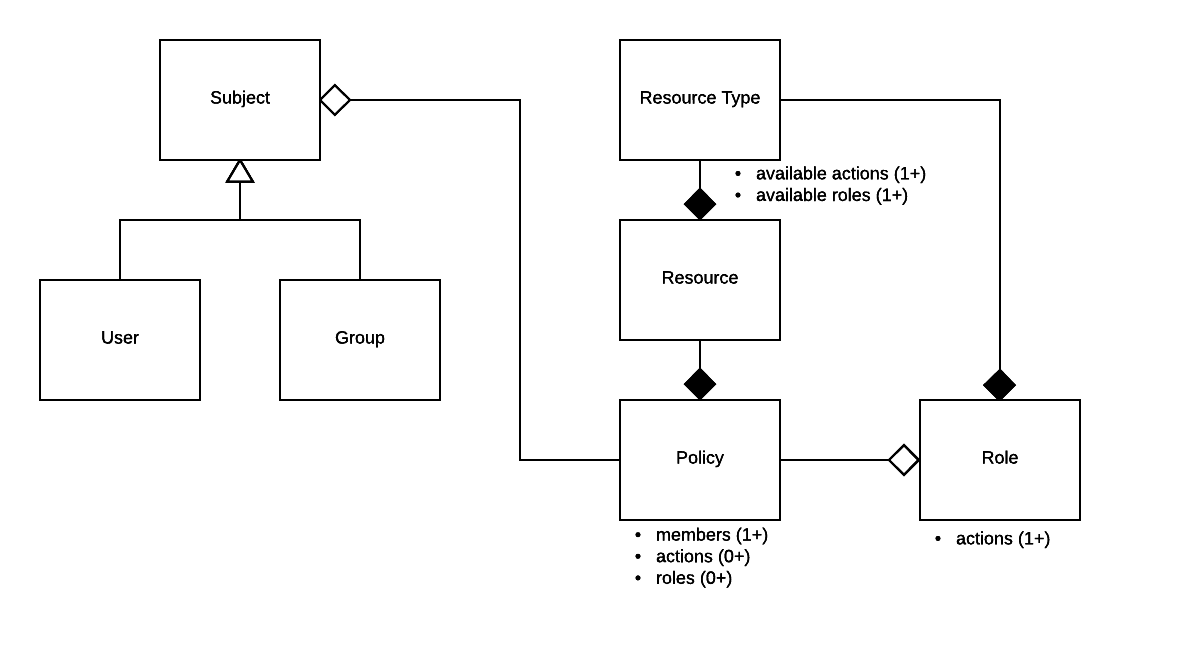
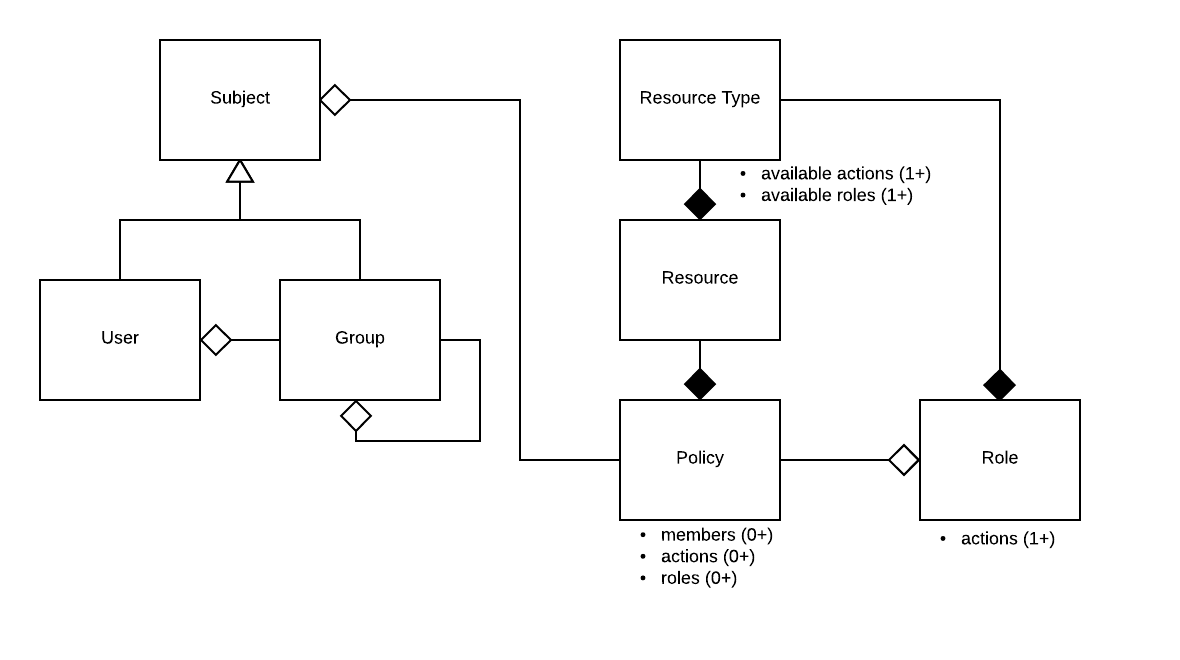
updated README

diff --git a/README.md b/README.md
@@ -4,19 +4,69 @@
 ## In a nutshell
 The crux of IAM in Sam is a policy. A policy says **who** can **do what** to a **thing**. More technically the who is called a **subject** and can be a user or a group of users, the do what is called an **action** such as read or update, and the thing is called a **resource** such as a workspace or project. Resources have types which specify what actions are available for its resources, roles (which are collections of actions) and which role is the "owner" role. The "owner" role should have the appropriate actions to administer a resource. When a resource is created a policy with the owner role is automatically created and the creator is added.
 
-Here is a pretty picture showing what is described above
+
+##Terms
+* Subject - an authenticated user
+* Resource - something to which access is controlled
+* Action - may be performed on a resource - meant to be as granular as possible
+* Policy - represents the actions a subject may perform on a resource
+* Role - a collection of actions - meant to aggregate actions into a more meaningful, higher level concept
+* Group - a group of subjects or other groups
+* Resource type - defines a class of resources. Each resource has a type which defines
+  * Available actions
+  * Available roles and actions for each role
+  * Of the available roles which is the “owner” role - this is used when creating a resource to give the creator ownership access
+
+##Requirements
+
+###Guiding Principles
+There are no special/super users in this system. All api calls authenticate as subjects with access rights determined by policies in the same way. In other words, this system should use its own policy mechanisms internally for any authorization needs. (Note that this does leave the problem of bootstrapping, i.e. how is the first user created, which can be achieved by scripts outside the system with direct data store level access)
+This system can be publically facing. This does not mean that it will be in all cases but it should be designed with this in mind
+Authentication is handled at a higher level than this application, e.g. via OAuth and an OIDC proxy
+
+###Evaluation
+Evaluation is the act of determining what a user may access.
+1. Given a subject, resource and action emit a yes or no response, i.e. can the subject perform the action on the resource? 
+1. Given a subject and a resource type, list all resources and associated policies on which the user is a member of (directly or indirectly) at least one policy.
+1. Given a subject and resource, list all the actions the user may perform on that resource
+1. Given a subject and resource, list all the user’s roles on that resource
+
+Of these 1 and 2 are the most important from a performance standpoint. Expect 1 to be called for almost every api call in a system. Expect 2 to be called from UI list pages where users generally want a snappy response.
+
+###Resource and Policy Management
+A policy is specific to a resource and a resource may have multiple policies. Each policy consists of a set of 1 or more subjects/groups and a set of 1 or more actions/roles. All of the subjects may perform all of the actions in the policy. Each policy has a name that is unique within a resource. Access to actions through policies is additive (i.e. the actions available to a user on a resource is an accumulation of all policies the user is a member of for that resource).
+
+There must be functions to create, delete and manage policies for resources. There must be access control around deleting resources and managing policies. There must be some built-in actions to do so (delete, read-policies, alter-policies). 
+
+There must be functions to create and delete resources. When a resource is created the caller should be the “owner.” The “owner” role generally will include delete, read-policies and alter-policies actions but need not always (e.g. if a resource may never be deleted then an owner would not have delete permissions). The actions that make up the “owner” role are defined by the resource type.
+
+Resource types define the set of available actions for all resources of that type. It also defines a set of roles and their associated actions. Roles are useful because it can be cumbersome to deal with granular actions and as a point of extensibility (when new actions are added to resource types, they can be added to roles as well effectively adding the action to all resources with that role). It is not yet necessary to provide apis to create and maintain resource types, this can be achieved through configuration.
+
+###User and Group Management
+User - Create, enable, disable, get status. Disabled users should be rejected from any api calls. Enabling a user should reinstate any prior access.
+
+Group - Create, delete, read, list, add/remove users and groups. Nested groups must be supported. Groups can be implemented as a resource type with admin and member roles.
+
+###Built In Actions
+* read_policies - may read all policies of a resource 
+* alter_policies - may change any policy of a resource
+* delete - may delete a resource
+* can_share::{policy name} - may add/remove members to/from specified policy of a resource
+
+###UML Model
 ![Sam Model](model.png)
+Note that in this model Group is a Subject. This allows it to be used interchangeably with Users within policies.
 
-Once a resource is created one can
-* create new named policies which may contain subjects, any actions that are valid for the resource type, and/or any roles that are valid for the resource type
-* list policies
-* alter policies
-* delete policies
-* ask if one has access to execute an action
+##Cloud Integrations
+Google
+* Groups can be mirrored to google groups.
+* Proxy groups - each user with access to google resources should have a google group known as a proxy. The proxy is 1-to-1 with the user and the user is member of the proxy. The proxy group should be used in place of the user in Google IAM policies and Google groups. Users should not be added directly. This allows easy enable and disable functionality by adding/removing users to their proxy groups. It also allows creation of service accounts that can act as the user (see pet service accounts below).
+* Pet service accounts - Google Compute Engine requires a service account to run compute. Service account credentials are the default credentials on any GCE instance. This is the best way at this time to provide credentials to any processes running on a GCE instance. Pet service accounts are created 1-to-1 with the user, are added to the user’s proxy group and can call system apis as the user. In this way a pet service account can act as the user in all respects that can be controlled by the system (resources outside control of the system need to be manually shared by the user with the proxy group).
 
-Also one can list all accessible resources of a type and associated policies.
 
-## To build 
+## Development
+
+### To build 
 Make sure git secrets is installed:
 ```$xslt
 brew install git-secrets
@@ -37,7 +87,7 @@ Build jar and docker image:
 ./docker/build.sh jar -d build
 ```
 
-## To run unit tests
+### To run unit tests
 Spin up a local OpenDJ:
 ```
 sh docker/run-opendj.sh start
